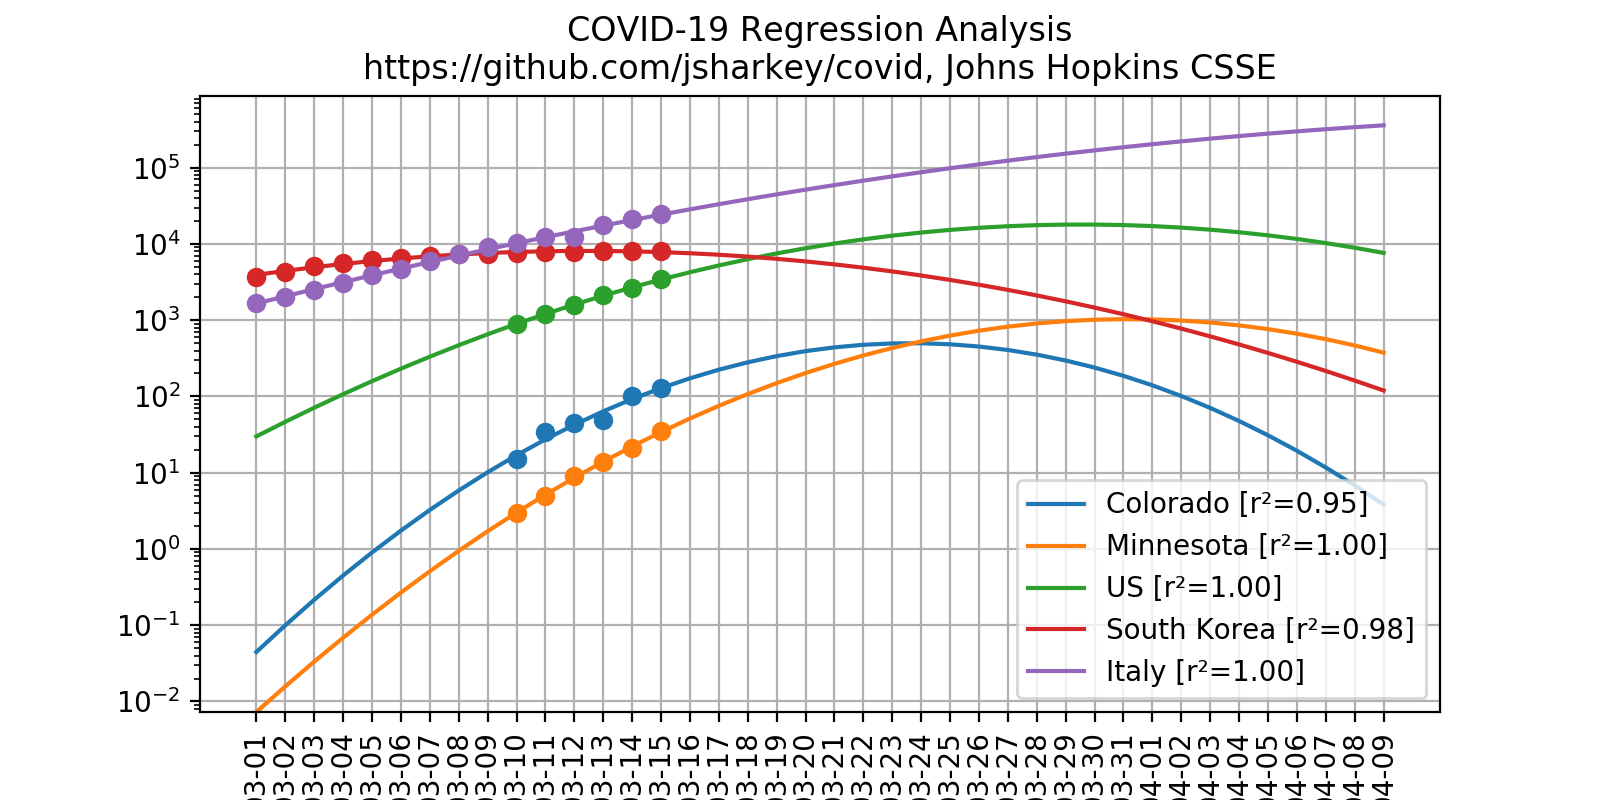
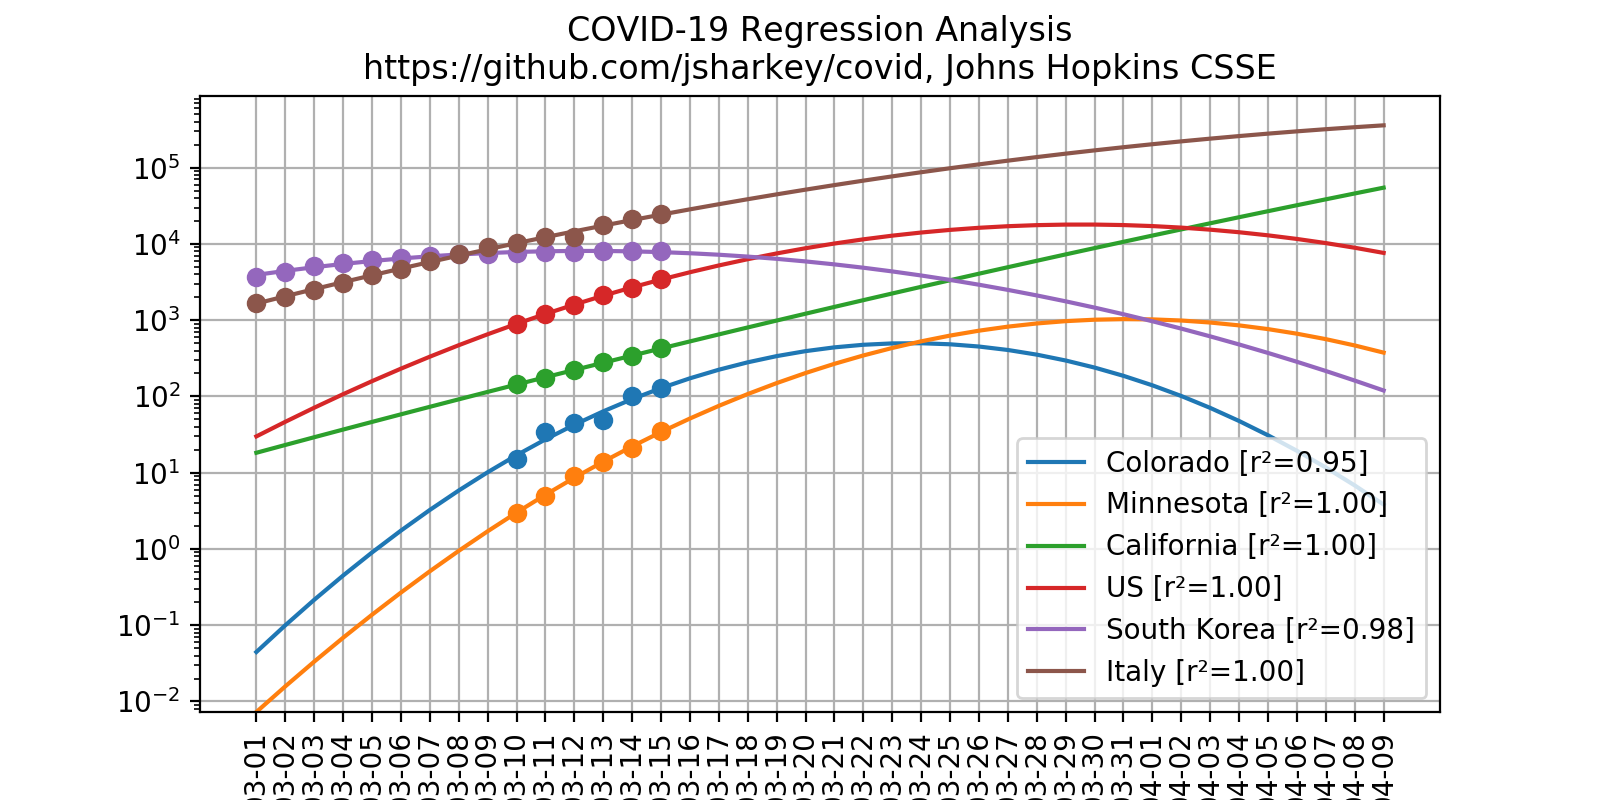
Include California.

diff --git a/covid.py b/covid.py
@@ -88,10 +88,11 @@ def plot(country=lambda c: True, state=lambda s: True, color=None, label=None):
 
 plot(country=lambda c: c == "US", state=lambda s: s == "Colorado",   color="C0", label="Colorado")
 plot(country=lambda c: c == "US", state=lambda s: s == "Minnesota",  color="C1", label="Minnesota")
-plot(country=lambda c: c == "US",                                    color="C2", label="US")
+plot(country=lambda c: c == "US", state=lambda s: s == "California", color="C2", label="California")
+plot(country=lambda c: c == "US",                                    color="C3", label="US")
 
-plot(country=lambda c: c == "Korea, South",                          color="C3", label="South Korea")
-plot(country=lambda c: c == "Italy",                                 color="C4", label="Italy")
+plot(country=lambda c: c == "Korea, South",                          color="C4", label="South Korea")
+plot(country=lambda c: c == "Italy",                                 color="C5", label="Italy")
 
 plt.xticks(x_data_ext, [ datetime.datetime.strftime(start+datetime.timedelta(d), "%m-%d") for d in x_data_ext ], rotation=90)
 plt.yscale("log")
